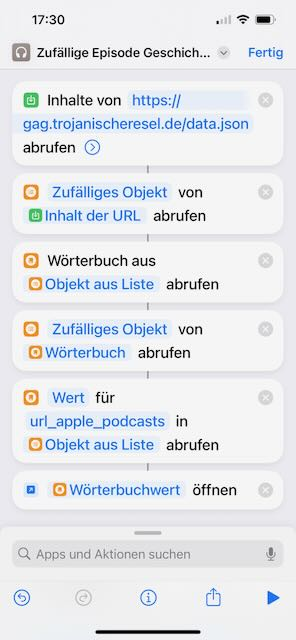
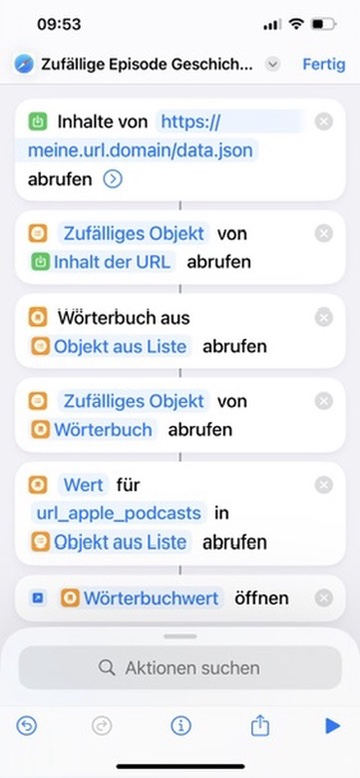
docs

diff --git a/Readme.md b/Readme.md
@@ -8,9 +8,7 @@ Buch das Abo, die Jungs machen einen tollen Job! 💰
 
 [Kurzbefehl App](https://apps.apple.com/de/app/kurzbefehle/id915249334)
 
-🦊 Schlaue Füchse setzen sich ein Lesezeichen zu dieser URL, um bei Änderungen an der API bzw. der Datenstruktur, oder überhaupt wenn was nicht geht, schnell Hilfe zu bekommen 🐒
-
-🙏 SCHAU AUCH MAL IN DIE [ROADMAP](Roadmap.md)<!-- omit in toc -->
+---
 
 - [Was ist das hier?](#was-ist-das-hier)
 - [Motivation](#motivation)
@@ -36,16 +34,16 @@ Und das macht zusammen: Ein simpler NGINX der JSON ausgibt. Was dir erlaubt per 
 Nutzer der **Podcast-App** auf dem **iPhone** haben vermutlich festgestellt, dass es ~~zumindest mir~~ unmöglich ist, sich eine zufällige Episode eines Podcasts ausgeben zu lassen.  
 Und. Es. Nervt. Unendlich!  
 
-Beim Zubettgehen und/oder Einschlafen läuft eine Folge "[Geschichten aus der Geschichte](https://www.geschichte.fm)". Jeden Mittwoch die neueste Folge. Spätestens samstags ist man dann damit durch. 🙈 Nun habe ich zwar meine absoluten Lieblingsfolgen und Evergreens ([meine 😍Episoden](#meine-persönlichen-highlight-episoden)), aber nur eine zufällige Wiedergabe bringt eben zwangsläufig auch etwas frischen Wind rein.
+Beim Zubettgehen und/oder Einschlafen läuft eine Folge "[Geschichten aus der Geschichte](https://www.geschichte.fm)". Jeden Mittwoch die neueste Folge. Spätestens samstags ist man dann damit durch. 🙈 Nun habe ich zwar meine absoluten Lieblingsfolgen und Evergreens ([meine Lieblings-Episoden](#meine-persönlichen-highlight-episoden)), aber nur eine zufällige Wiedergabe bringt eben zwangsläufig auch etwas frischen Wind rein.
 
 Dieses Repository soll anderen Podcast-Hörern, die iPhones nutzen, die Freuden einer Zufallswiedergabe bieten. Mit Hilfe der unten beschriebenen Anleitung für die **Apple Kurzbefehle App**. 👇
 
 ## Ich will nur shufflen - nichts coden! 🚀
 
 Du musst nicht coden können, sondern darfst gerne meinen Server nutzen.  
-Dazu musst du nur den Shortcut aufsetzen und darin die von mir zur Verfügung gestellte URL einsetzen:  
+Dazu musst du nur den Shortcut aufsetzen und die `data.json` auf deinen Webhoster laden:  
 
-- `https://gag.trojanischeresel.de/data.json`
+- `https://meine.url.domain/data.json`
 
 Wie du den [Shortcut erstellst](#shortcut-erstellen) 👈
 
@@ -56,7 +54,7 @@ Bevor 1000 Wörter folgen, hier der Screenshots des Shortcuts:
 ![Screenshot des Shortcuts](./docs/screenshot.jpeg)
 
 1. Inhalte von URL abrufen  
-    ➡ `https://gag.trojanischeresel.de/data.json` 
+    ➡ `https://meine.url.domain/data.json`
     ➡ oder deine eigene URL zur JSON Datei
 2. Objekt aus Liste abrufen  
     ➡ "Zufälliges Objekt" von "Inhalt der URL"
@@ -137,22 +135,13 @@ Ohne Anspruch auf Vollständigkeit 🥸 aber in chronologischer Reihenfolge:
 - GAG383 - Bletchley Park [zur Folge](https://podcasts.apple.com/de/podcast/geschichten-aus-der-geschichte/id1044844618?i=1000596383457)
 - GAG406 - Die SMS Wolf und die Piraten des Kaisers [zur Folge](https://podcasts.apple.com/de/podcast/geschichten-aus-der-geschichte/id1044844618?i=1000619254302)
 - GAG413 - Paracelsus – Arzt und Alchemist [zur Folge](https://podcasts.apple.com/de/podcast/geschichten-aus-der-geschichte/id1044844618?i=1000625306816)
+- GAG433 - Der Schinderhannes [zur Folge](https://podcasts.apple.com/de/podcast/geschichten-aus-der-geschichte/id1044844618?i=1000641037112)
+- GAG434 - Ein willkommener Mörder [zur Folge](https://podcasts.apple.com/de/podcast/geschichten-aus-der-geschichte/id1044844618?i=1000641895496)
+- GAG473 - Die Erfindung der Lochkarte [zur Folge](https://podcasts.apple.com/de/podcast/geschichten-aus-der-geschichte/id1044844618?i=1000673214924)
 
 </details>
 
 ## FAQ
-
-### Wenn alles über deinen Server läuft, dann DSGVO und so, oder?
-
-Na, aber, aber, ich bitte dich. 
-
-Ich will weder von dir irgendwelche Daten haben, noch gebe ich meine Daten gerne her.  
-Also speichere ich selbst aktiv keine Daten/IPs und Cookies bekommst du von mir auch keine!  
-Das hast du davon!
-
-### Kann ich mitmachen?
-
-Klar, gerne. Schau dir die [Contributions](#contributions--mitmachen) an.
 
 ### Kann ich dir einen Kaffee spendieren?
 
@@ -165,7 +154,7 @@ Wenn du selbst keine Ideen hast, hier ein paar Vorschläge:
 - https://letsencrypt.org
 - https://www.mozilla.org
 
-# Test
+# Code Testing
 
 Ein paar kleine, erste Tests gibt es nun auch.
 
